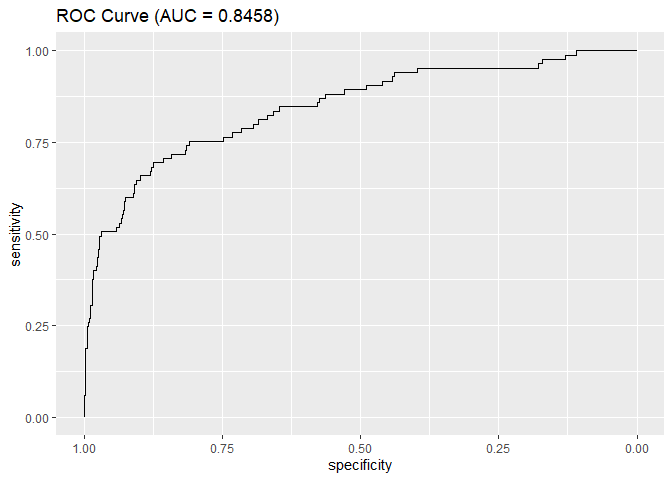
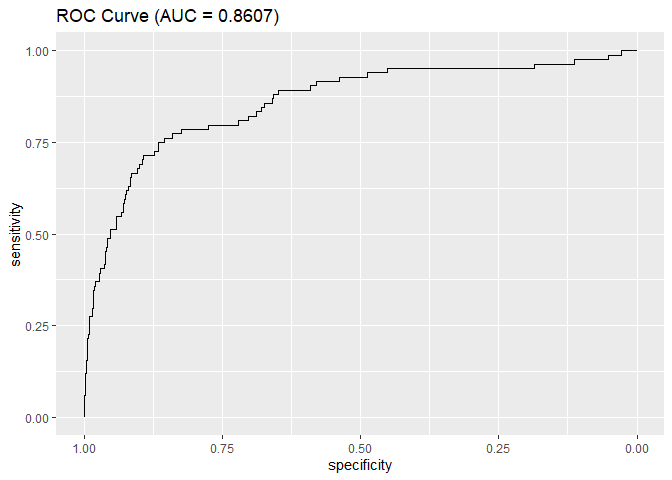
commit

diff --git a/DM_Homework_2.md b/DM_Homework_2.md
@@ -27,7 +27,7 @@ be evenly distributed across temperatures.
 
 ## Linear Model
 
-    ## [1] 7997.419
+    ## [1] 9590.392
 
 My linear model regresses price on all variables excluding `pctCollege`
 `fireplaces` `waterfront` and includes interactions on `landValue` and
@@ -62,11 +62,11 @@ the approximated lowest RMSE:
     ## 
     ## No pre-processing
     ## Resampling: Cross-Validated (10 fold) 
-    ## Summary of sample sizes: 1244, 1244, 1243, 1244, 1244, 1244, ... 
+    ## Summary of sample sizes: 1242, 1244, 1244, 1243, 1243, 1245, ... 
     ## Resampling results:
     ## 
     ##   RMSE      Rsquared   MAE     
-    ##   59015.49  0.6451931  41998.27
+    ##   59391.93  0.6364438  41958.62
     ## 
     ## Tuning parameter 'intercept' was held constant at a value of TRUE
 
@@ -106,21 +106,17 @@ credit history category.
 
 # Problem 4
 
-    ## Warning: glm.fit: fitted probabilities numerically 0 or 1 occurred
+    ##    yhat
+    ## y      0    1
+    ##   0 8172   92
+    ##   1  481  255
 
     ##    yhat
     ## y      0    1
-    ##   0 8190   97
-    ##   1  464  249
+    ##   0 8166   98
+    ##   1  484  252
 
-    ## Warning: glm.fit: fitted probabilities numerically 0 or 1 occurred
-
-    ##    yhat
-    ## y      0    1
-    ##   0 8190   97
-    ##   1  467  246
-
-    ## [1] 0.0003333333
+    ## [1] 0.001
 
 The out of sample accuracy is almost 94% for the linear model specified,
 which is slightly higher than the baseline 2 model, where `is_summer`
@@ -130,7 +126,7 @@ and `is_holiday` are features I generated from `arrival_date`.
 
     ## Warning: glm.fit: fitted probabilities numerically 0 or 1 occurred
 
-    ## [1] 0.932
+    ## [1] 0.928
 
     ## Setting levels: control = 0, case = 1
 
@@ -157,129 +153,129 @@ and `is_holiday` are features I generated from `arrival_date`.
 <tbody>
 <tr class="odd">
 <td style="text-align: left;">Fold01</td>
-<td style="text-align: left;">19</td>
-<td style="text-align: left;">21</td>
+<td style="text-align: left;">20</td>
+<td style="text-align: left;">22</td>
 <td style="text-align: left;">2</td>
 </tr>
 <tr class="even">
 <td style="text-align: left;">Fold02</td>
-<td style="text-align: left;">22</td>
 <td style="text-align: left;">23</td>
+<td style="text-align: left;">24</td>
 <td style="text-align: left;">1</td>
 </tr>
 <tr class="odd">
 <td style="text-align: left;">Fold03</td>
 <td style="text-align: left;">17</td>
-<td style="text-align: left;">17</td>
-<td style="text-align: left;">0</td>
+<td style="text-align: left;">22</td>
+<td style="text-align: left;">5</td>
 </tr>
 <tr class="even">
 <td style="text-align: left;">Fold04</td>
-<td style="text-align: left;">15</td>
-<td style="text-align: left;">16</td>
-<td style="text-align: left;">1</td>
+<td style="text-align: left;">17</td>
+<td style="text-align: left;">21</td>
+<td style="text-align: left;">4</td>
 </tr>
 <tr class="odd">
 <td style="text-align: left;">Fold05</td>
-<td style="text-align: left;">22</td>
-<td style="text-align: left;">28</td>
-<td style="text-align: left;">6</td>
+<td style="text-align: left;">23</td>
+<td style="text-align: left;">23</td>
+<td style="text-align: left;">0</td>
 </tr>
 <tr class="even">
 <td style="text-align: left;">Fold06</td>
-<td style="text-align: left;">18</td>
 <td style="text-align: left;">24</td>
-<td style="text-align: left;">6</td>
+<td style="text-align: left;">22</td>
+<td style="text-align: left;">-2</td>
 </tr>
 <tr class="odd">
 <td style="text-align: left;">Fold07</td>
-<td style="text-align: left;">17</td>
-<td style="text-align: left;">13</td>
-<td style="text-align: left;">-4</td>
-</tr>
-<tr class="even">
-<td style="text-align: left;">Fold08</td>
-<td style="text-align: left;">20</td>
-<td style="text-align: left;">20</td>
-<td style="text-align: left;">0</td>
-</tr>
-<tr class="odd">
-<td style="text-align: left;">Fold09</td>
 <td style="text-align: left;">22</td>
 <td style="text-align: left;">19</td>
 <td style="text-align: left;">-3</td>
 </tr>
 <tr class="even">
-<td style="text-align: left;">Fold10</td>
-<td style="text-align: left;">18</td>
-<td style="text-align: left;">20</td>
-<td style="text-align: left;">2</td>
+<td style="text-align: left;">Fold08</td>
+<td style="text-align: left;">21</td>
+<td style="text-align: left;">24</td>
+<td style="text-align: left;">3</td>
 </tr>
 <tr class="odd">
-<td style="text-align: left;">Fold11</td>
-<td style="text-align: left;">20</td>
-<td style="text-align: left;">21</td>
-<td style="text-align: left;">1</td>
+<td style="text-align: left;">Fold09</td>
+<td style="text-align: left;">23</td>
+<td style="text-align: left;">18</td>
+<td style="text-align: left;">-5</td>
 </tr>
 <tr class="even">
-<td style="text-align: left;">Fold12</td>
+<td style="text-align: left;">Fold10</td>
+<td style="text-align: left;">18</td>
 <td style="text-align: left;">15</td>
-<td style="text-align: left;">12</td>
 <td style="text-align: left;">-3</td>
 </tr>
 <tr class="odd">
+<td style="text-align: left;">Fold11</td>
+<td style="text-align: left;">15</td>
+<td style="text-align: left;">19</td>
+<td style="text-align: left;">4</td>
+</tr>
+<tr class="even">
+<td style="text-align: left;">Fold12</td>
+<td style="text-align: left;">17</td>
+<td style="text-align: left;">15</td>
+<td style="text-align: left;">-2</td>
+</tr>
+<tr class="odd">
 <td style="text-align: left;">Fold13</td>
+<td style="text-align: left;">20</td>
+<td style="text-align: left;">24</td>
+<td style="text-align: left;">4</td>
+</tr>
+<tr class="even">
+<td style="text-align: left;">Fold14</td>
+<td style="text-align: left;">22</td>
+<td style="text-align: left;">23</td>
+<td style="text-align: left;">1</td>
+</tr>
+<tr class="odd">
+<td style="text-align: left;">Fold15</td>
 <td style="text-align: left;">20</td>
 <td style="text-align: left;">19</td>
 <td style="text-align: left;">-1</td>
 </tr>
 <tr class="even">
-<td style="text-align: left;">Fold14</td>
+<td style="text-align: left;">Fold16</td>
+<td style="text-align: left;">17</td>
+<td style="text-align: left;">18</td>
+<td style="text-align: left;">1</td>
+</tr>
+<tr class="odd">
+<td style="text-align: left;">Fold17</td>
+<td style="text-align: left;">20</td>
+<td style="text-align: left;">20</td>
+<td style="text-align: left;">0</td>
+</tr>
+<tr class="even">
+<td style="text-align: left;">Fold18</td>
+<td style="text-align: left;">20</td>
+<td style="text-align: left;">24</td>
+<td style="text-align: left;">4</td>
+</tr>
+<tr class="odd">
+<td style="text-align: left;">Fold19</td>
 <td style="text-align: left;">19</td>
 <td style="text-align: left;">15</td>
 <td style="text-align: left;">-4</td>
 </tr>
-<tr class="odd">
-<td style="text-align: left;">Fold15</td>
-<td style="text-align: left;">16</td>
-<td style="text-align: left;">17</td>
-<td style="text-align: left;">1</td>
-</tr>
-<tr class="even">
-<td style="text-align: left;">Fold16</td>
-<td style="text-align: left;">21</td>
-<td style="text-align: left;">25</td>
-<td style="text-align: left;">4</td>
-</tr>
-<tr class="odd">
-<td style="text-align: left;">Fold17</td>
-<td style="text-align: left;">19</td>
-<td style="text-align: left;">25</td>
-<td style="text-align: left;">6</td>
-</tr>
-<tr class="even">
-<td style="text-align: left;">Fold18</td>
-<td style="text-align: left;">21</td>
-<td style="text-align: left;">18</td>
-<td style="text-align: left;">-3</td>
-</tr>
-<tr class="odd">
-<td style="text-align: left;">Fold19</td>
-<td style="text-align: left;">21</td>
-<td style="text-align: left;">27</td>
-<td style="text-align: left;">6</td>
-</tr>
 <tr class="even">
 <td style="text-align: left;">Fold20</td>
-<td style="text-align: left;">19</td>
-<td style="text-align: left;">22</td>
-<td style="text-align: left;">3</td>
+<td style="text-align: left;">17</td>
+<td style="text-align: left;">15</td>
+<td style="text-align: left;">-2</td>
 </tr>
 <tr class="odd">
 <td style="text-align: left;">Total</td>
-<td style="text-align: left;">381</td>
+<td style="text-align: left;">395</td>
 <td style="text-align: left;">402</td>
-<td style="text-align: left;">-21</td>
+<td style="text-align: left;">-7</td>
 </tr>
 </tbody>
 </table>
